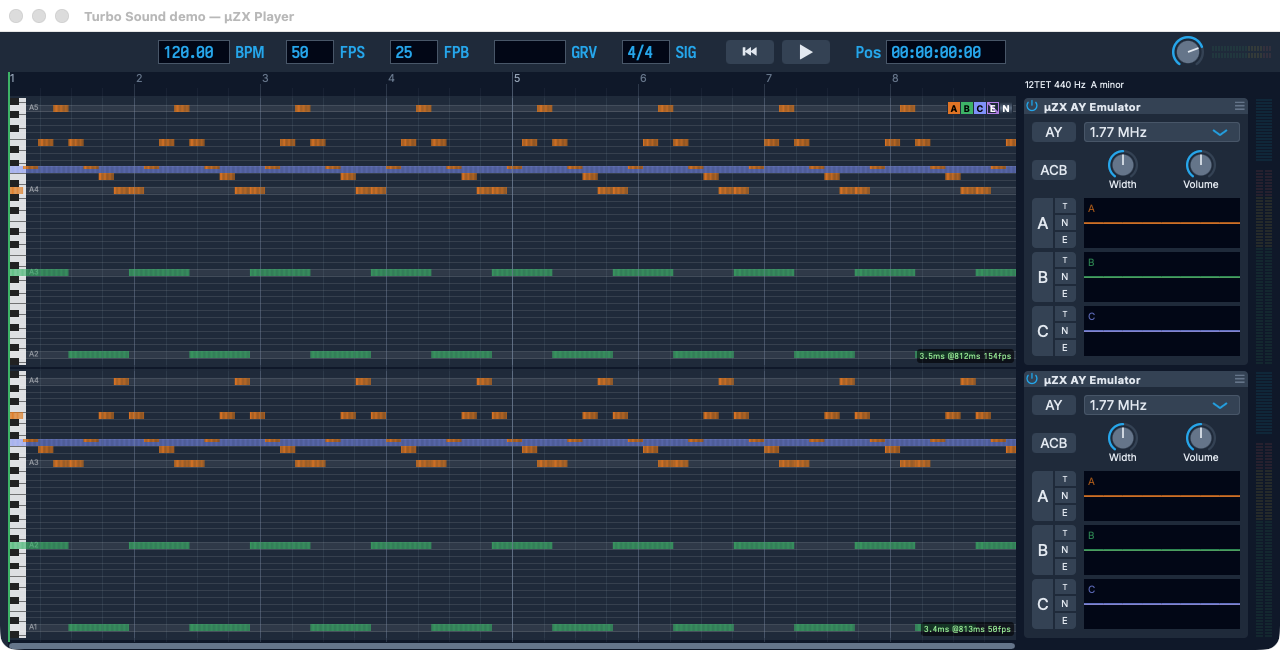
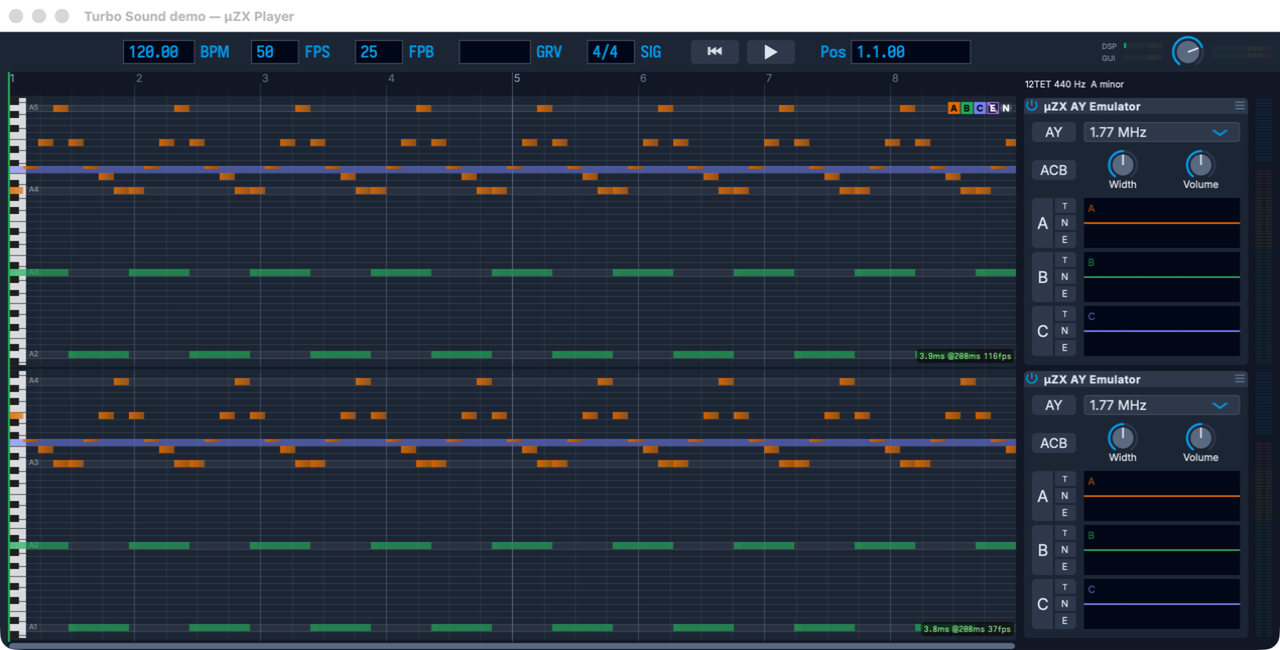
Feature/cpu load meters (#34)
* Transport bar: DSP and GUI CPU load meters

Two LED rows left of the master volume knob, in every app:
- DSP: the audio callback's share of its time budget, from JUCE's
  AudioDeviceManager load measurer via tracktion DeviceManager::getCpuUsage.
- GUI: the message thread's CPU time per second, read from the thread's
  own CPU clock (CLOCK_THREAD_CPUTIME_ID; GetThreadTimes on Windows) by a
  4 Hz timer on that thread. JUCE has no helper for this.

* docs: regenerate user-guide figures with the CPU meters

* Windows: qualify juce::Rectangle in LevelMeter.cpp, which includes <windows.h> (GDI Rectangle clash)

diff --git a/src/gui/common/LevelMeter.cpp b/src/gui/common/LevelMeter.cpp
@@ -1,6 +1,15 @@
 #include "LevelMeter.h"
 #include "LookAndFeel.h"
 
+#if JUCE_WINDOWS
+ #ifndef NOMINMAX
+  #define NOMINMAX
+ #endif
+ #include <windows.h>  // declares a GDI Rectangle(), so this file writes juce::Rectangle
+#else
+ #include <time.h>
+#endif
+
 namespace MoTool {
 
 namespace LedMeter {
@@ -20,14 +29,15 @@ static Colour ledColour(float position, bool isMidi) {
     return Colors::Meter::high;
 }
 
-void draw(Graphics& g, Rectangle<int> area, int ledSize, int gap, float fill, bool horizontal, bool isMidi) {
+void draw(Graphics& g, juce::Rectangle<int> area, int ledSize, int gap, float fill, bool horizontal, bool isMidi) {
     const int step = ledSize + gap;
     const int ledCount = (horizontal ? area.getWidth() : area.getHeight()) / step;
     const int activeLeds = static_cast<int>(jlimit(0.0f, 1.0f, fill) * static_cast<float>(ledCount));
 
     for (int i = 0; i < ledCount; ++i) {
-        auto led = horizontal ? Rectangle<int>(area.getX() + i * step, area.getY(), ledSize, area.getHeight())
-                              : Rectangle<int>(area.getX(), area.getBottom() - (i + 1) * step, area.getWidth(), ledSize);
+        using R = juce::Rectangle<int>;
+        auto led = horizontal ? R(area.getX() + i * step, area.getY(), ledSize, area.getHeight())
+                              : R(area.getX(), area.getBottom() - (i + 1) * step, area.getWidth(), ledSize);
         auto colour = ledColour(static_cast<float>(i) / static_cast<float>(ledCount), isMidi);
         g.setColour(i < activeLeds ? colour : colour.withAlpha(0.1f));
         g.fillRect(led);
@@ -72,6 +82,57 @@ void MasterLevelMeter::paint(Graphics& g) {
     auto top = b.removeFromTop(b.getHeight() / 2);
     LedMeter::draw(g, top.withTrimmedBottom(gap), ledSize, gap, left_, true);
     LedMeter::draw(g, b.withTrimmedTop(gap), ledSize, gap, right_, true);
+}
+
+//==============================================================================
+/** CPU time the calling thread has used so far, in milliseconds. */
+static double getThreadCpuTimeMs() {
+   #if JUCE_WINDOWS
+    // ponytail: Windows counts thread time in scheduler ticks (~15.6 ms); fine over the meter's 250 ms.
+    FILETIME created, exited, kernel, user;
+    GetThreadTimes(GetCurrentThread(), &created, &exited, &kernel, &user);
+    const auto ms = [](FILETIME t) { return double((uint64(t.dwHighDateTime) << 32) | t.dwLowDateTime) / 1.0e4; };
+    return ms(kernel) + ms(user);
+   #else
+    timespec t {};
+    clock_gettime(CLOCK_THREAD_CPUTIME_ID, &t);
+    return double(t.tv_sec) * 1.0e3 + double(t.tv_nsec) / 1.0e6;
+   #endif
+}
+
+CpuLoadMeter::CpuLoadMeter(tracktion::Engine& engine)
+    : engine_{engine}
+    , lastThreadMs_{getThreadCpuTimeMs()}
+    , lastWallMs_{Time::getMillisecondCounterHiRes()}
+{
+    setInterceptsMouseClicks(false, false);
+    startTimerHz(4);
+}
+
+void CpuLoadMeter::timerCallback() {
+    // The timer runs on the message thread, so its own CPU time is the message thread's.
+    const auto threadMs = getThreadCpuTimeMs();
+    const auto wallMs = Time::getMillisecondCounterHiRes();
+    if (wallMs > lastWallMs_)
+        message_ = float((threadMs - lastThreadMs_) / (wallMs - lastWallMs_));
+    lastThreadMs_ = threadMs;
+    lastWallMs_ = wallMs;
+
+    audio_ = engine_.getDeviceManager().getCpuUsage();
+    repaint();
+}
+
+void CpuLoadMeter::paint(Graphics& g) {
+    static constexpr int ledSize = 2, gap = 1, ledHeight = 5, captionWidth = 22;
+    g.setFont(FontOptions(9.0f));
+    auto b = getLocalBounds();
+    const auto row = [&](juce::Rectangle<int> r, const char* caption, float load) {
+        g.setColour(Colors::Theme::textSecondary);
+        g.drawText(caption, r.removeFromLeft(captionWidth), Justification::centredLeft, false);
+        LedMeter::draw(g, r.withSizeKeepingCentre(r.getWidth(), ledHeight), ledSize, gap, load, true);
+    };
+    row(b.removeFromTop(b.getHeight() / 2), "DSP", audio_);
+    row(b, "GUI", message_);
 }
 
 }  // namespace MoTool

diff --git a/src/gui/common/Transport.cpp b/src/gui/common/Transport.cpp
@@ -65,6 +65,7 @@ TransportBar::TransportBar(EditViewState& evs, TransportBarOptions opts)
     addAndMakeVisible(transportReadout_);
     addAndMakeVisible(masterVolumeSlider_);
     addAndMakeVisible(masterMeter_);
+    addAndMakeVisible(cpuMeter_);
 
     if (options_.showRecord)
         addAndMakeVisible(recordButton_);
@@ -194,6 +195,9 @@ void TransportBar::resized() {
     masterMeter_.setBounds(b.removeFromRight(meterWidth).withSizeKeepingCentre(meterWidth, w / 2));
     b.removeFromRight(spacing);
     masterVolumeSlider_.setBounds(b.removeFromRight(w + 8).expanded(4, 4));
+    b.removeFromRight(spacing);
+    static constexpr int cpuMeterWidth = 62;
+    cpuMeter_.setBounds(b.removeFromRight(cpuMeterWidth));
     b.removeFromRight(spacing);
 
     // Components that make up the left-aligned block, collected so we can shift the

diff --git a/src/gui/common/LevelMeter.h b/src/gui/common/LevelMeter.h
@@ -40,4 +40,26 @@ private:
     JUCE_DECLARE_NON_COPYABLE_WITH_LEAK_DETECTOR(MasterLevelMeter)
 };
 
+
+//==============================================================================
+/** CPU load as two captioned LED rows: DSP is the audio callback's share of its time budget,
+    GUI is the message thread's CPU time per second of wall time. */
+class CpuLoadMeter : public Component,
+                     private Timer
+{
+public:
+    explicit CpuLoadMeter(tracktion::Engine& engine);
+
+    void paint(Graphics& g) override;
+
+private:
+    void timerCallback() override;
+
+    tracktion::Engine& engine_;
+    double lastThreadMs_, lastWallMs_;
+    float audio_ = 0.0f, message_ = 0.0f;
+
+    JUCE_DECLARE_NON_COPYABLE_WITH_LEAK_DETECTOR(CpuLoadMeter)
+};
+
 }  // namespace MoTool

diff --git a/src/gui/common/Transport.h b/src/gui/common/Transport.h
@@ -62,6 +62,7 @@ private:
     Slider masterVolumeSlider_ { Slider::SliderStyle::RotaryVerticalDrag, Slider::TextEntryBoxPosition::NoTextBox };
     SliderParamEndpointBinding masterAttachment_ {masterVolumeSlider_, edit_.getMasterSliderPosParameter()};
     MasterLevelMeter masterMeter_ {edit_};
+    CpuLoadMeter cpuMeter_ {edit_.engine};
 
     TextButton rewindButton_    { "⏮"_u },
     //    stepLeftButton_  { "<" },

diff --git a/docs/user-guide.md b/docs/user-guide.md
@@ -57,6 +57,7 @@ The transport sits above the timeline; each track ends in its AY chip and level 
 | Time signature (SIG) | Click and type a new one, such as 3/4 or 6/8; a bare number keeps the denominator. PSG clips keep playing at the same times. Importing a PSG into an empty project sets 3/4 when its drum and bass patterns clearly repeat every three beats, 4/4 when they clearly repeat every four, and otherwise leaves it as is |
 | Master volume knob | Output level; each app remembers it across files and launches |
 | Level meter | Stereo output level, after the master volume |
+| CPU meter | Left of the master volume knob. DSP: how much of each audio buffer's time the sound engine needs; near full, the sound can crackle. GUI: how busy the app's main thread is, which draws the window; near full, the timeline and scopes can stutter |
 
 For keys, see [Keyboard and Mouse](#keyboard-and-mouse).
 
